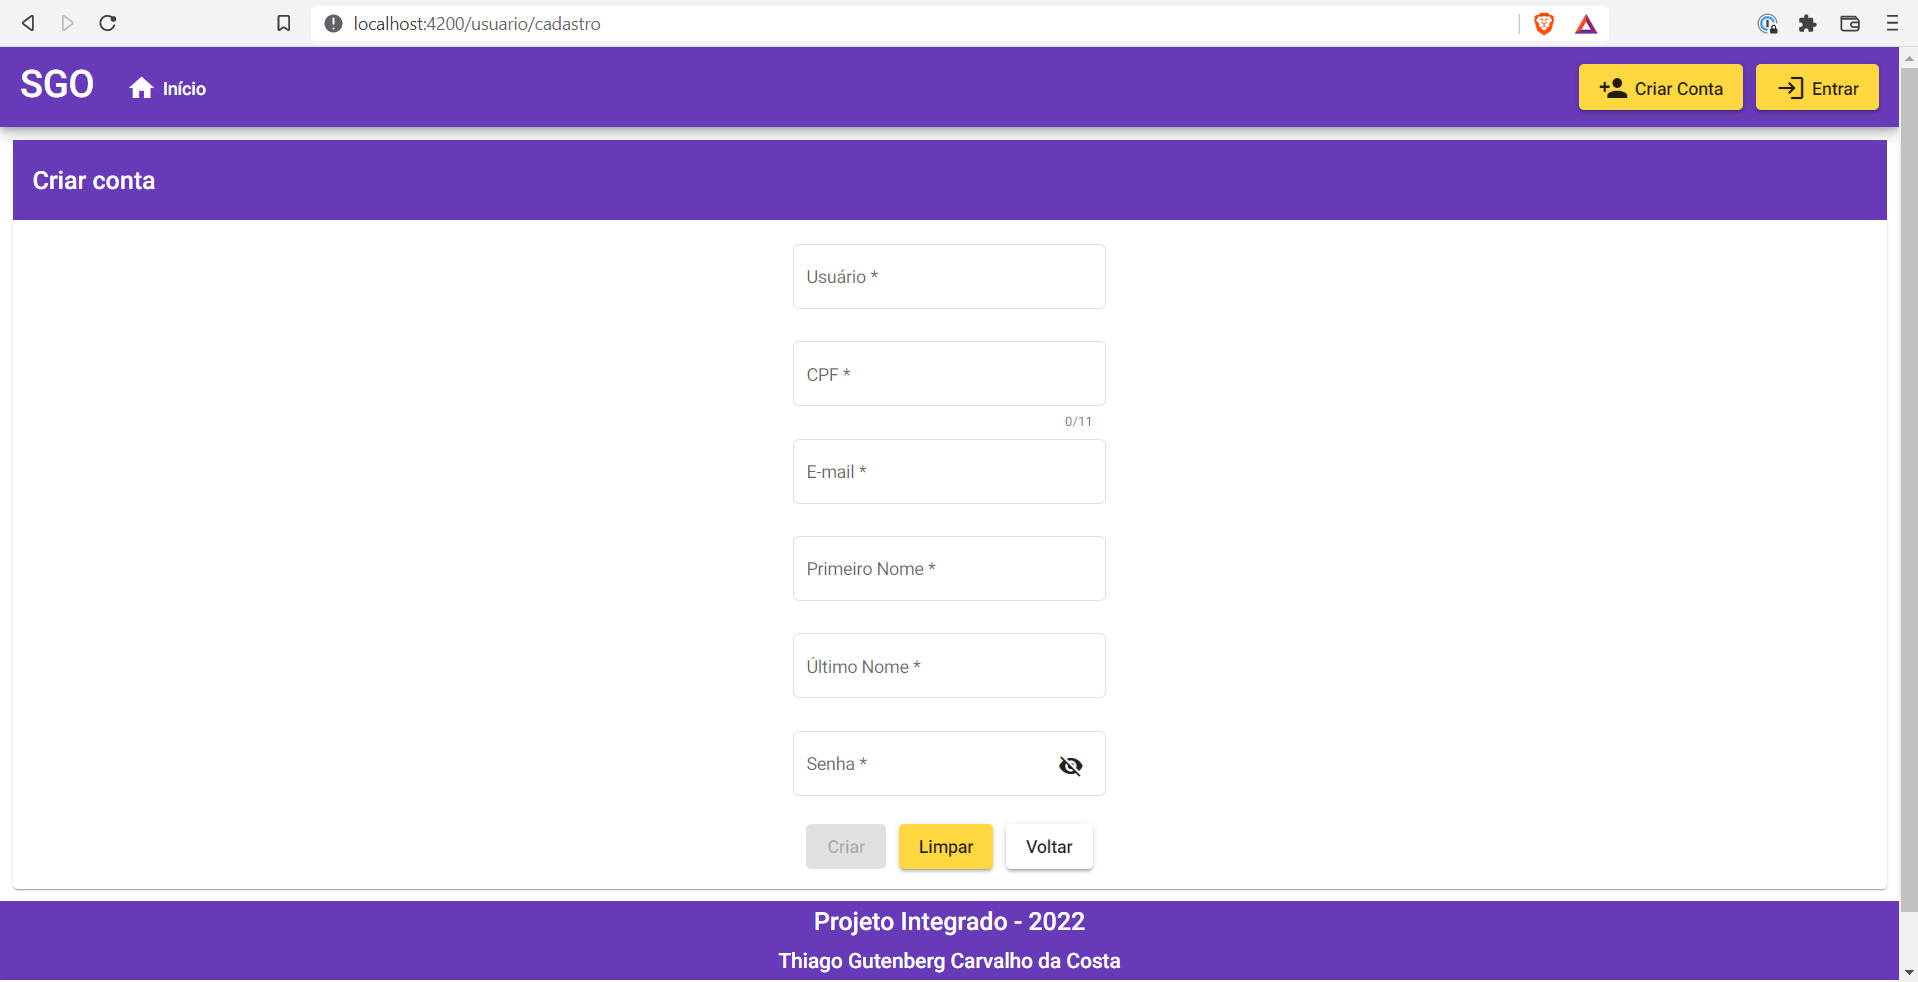
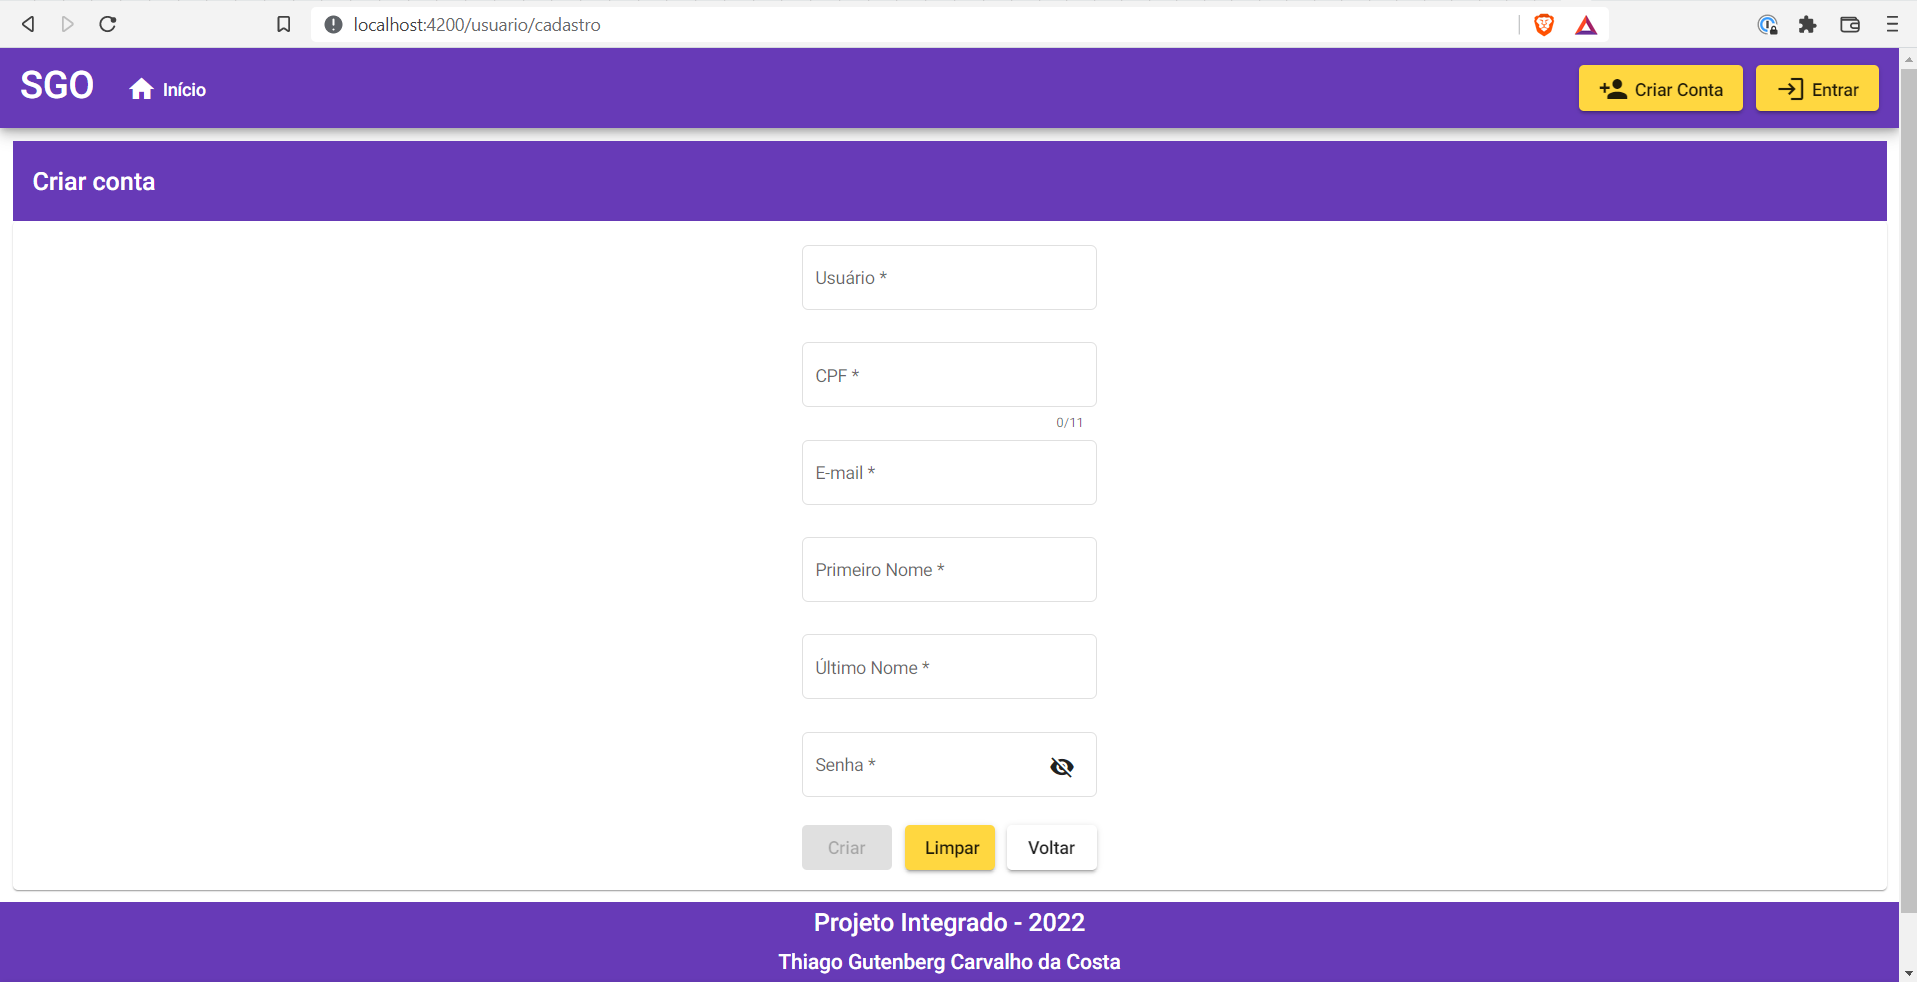
Ajustando responsividade das telas de cadastro e de registro de ocorrencia

diff --git a/portal-web/src/app/ocorrencia/feature/registrar-ocorrencia/registrar-ocorrencia.component.html b/portal-web/src/app/ocorrencia/feature/registrar-ocorrencia/registrar-ocorrencia.component.html
@@ -4,51 +4,71 @@
   </mat-toolbar>
   <mat-card>
     <form [formGroup]="registroForm" (ngSubmit)="onSubmit()" novalidate>
-      <div fxLayout="column" fxLayoutAlign="space-between center">
+      <div fxLayout="column">
 
-        <mat-form-field appearance="outline">
-          <mat-label>Serviço</mat-label>
-          <mat-select formControlName="servico" id="servico" required>
-            <!-- <mat-option>Nenhum</mat-option> -->
-            <ng-container *ngIf="servicos$ | async as servicos;">
-              <mat-option *ngFor="let servico of servicos" [value]="servico.id">
-                {{ servico.nome }}
-              </mat-option>
-            </ng-container>
-          </mat-select>
-          <mat-error *ngIf="hasError('servico', 'required')">Campo é obrigatório</mat-error>
-        </mat-form-field>
+        <div fxLayout="row" fxLayout.xs="column" fxLayoutGap="10px">
+          <div fxFlex="20">
+            <mat-form-field appearance="outline">
+              <mat-label>Serviço</mat-label>
+              <mat-select formControlName="servico" id="servico" required>
+                <!-- <mat-option>Nenhum</mat-option> -->
+                <ng-container *ngIf="servicos$ | async as servicos;">
+                  <mat-option *ngFor="let servico of servicos" [value]="servico.id">
+                    {{ servico.nome }}
+                  </mat-option>
+                </ng-container>
+              </mat-select>
+              <mat-error *ngIf="hasError('servico', 'required')">Campo é obrigatório</mat-error>
+            </mat-form-field>
+          </div>
 
-        <mat-form-field appearance="outline">
-          <mat-label>CEP</mat-label>
-          <input matInput #input maxlength="8" placeholder="00000-000" formControlName="cep" id="cep" required>
-          <mat-hint align="end">{{ input.value?.length || 0 }}/8</mat-hint>
-          <mat-error *ngIf="hasError('cep', 'required')">Campo é obrigatório</mat-error>
-        </mat-form-field>
+          <div fxFlex="80">
+            <div fxLayout="column">
+              <div fxLayout="row" fxLayout.xs="column" fxLayoutGap="10px">
+                <div fxFlex="30">
+                  <mat-form-field appearance="outline">
+                    <mat-label>CEP</mat-label>
+                    <input matInput #input maxlength="8" placeholder="00000-000" formControlName="cep" id="cep"
+                      title="CEP" required>
+                    <mat-hint align="end">{{ input.value?.length || 0 }}/8</mat-hint>
+                    <mat-error *ngIf="hasError('cep', 'required')">Campo é obrigatório</mat-error>
+                  </mat-form-field>
+                </div>
+                <div fxFlex="20">
+                  <mat-form-field appearance="outline">
+                    <mat-label>Estado</mat-label>
+                    <input matInput formControlName="estado" id="estado" title="Estado" required>
+                    <mat-error *ngIf="hasError('estado', 'required')">Campo é obrigatório</mat-error>
+                  </mat-form-field>
+                </div>
+                <div fxFlex="50">
+                  <mat-form-field appearance="outline">
+                    <mat-label>Cidade</mat-label>
+                    <input matInput formControlName="cidade" id="cidade" title="Cidade" required>
+                    <mat-error *ngIf="hasError('cidade', 'required')">Campo é obrigatório</mat-error>
+                  </mat-form-field>
+                </div>
+              </div>
 
-        <mat-form-field appearance="outline">
-          <mat-label>Estado</mat-label>
-          <input matInput formControlName="estado" id="estado" required>
-          <mat-error *ngIf="hasError('estado', 'required')">Campo é obrigatório</mat-error>
-        </mat-form-field>
-
-        <mat-form-field appearance="outline">
-          <mat-label>Cidade</mat-label>
-          <input matInput formControlName="cidade" id="cidade" required>
-          <mat-error *ngIf="hasError('cidade', 'required')">Campo é obrigatório</mat-error>
-        </mat-form-field>
-
-        <mat-form-field appearance="outline">
-          <mat-label>Bairro</mat-label>
-          <input matInput formControlName="bairro" id="bairro" required>
-          <mat-error *ngIf="hasError('bairro', 'required')">Campo é obrigatório</mat-error>
-        </mat-form-field>
-
-        <mat-form-field appearance="outline">
-          <mat-label>Endereço</mat-label>
-          <input matInput formControlName="endereco" id="endereco" required>
-          <mat-error *ngIf="hasError('endereco', 'required')">Campo é obrigatório</mat-error>
-        </mat-form-field>
+              <div fxLayout="row" fxLayout.xs="column" fxLayoutGap="10px">
+                <div fxFlex="30">
+                  <mat-form-field appearance="outline">
+                    <mat-label>Bairro</mat-label>
+                    <input matInput formControlName="bairro" id="bairro" title="Bairro" required>
+                    <mat-error *ngIf="hasError('bairro', 'required')">Campo é obrigatório</mat-error>
+                  </mat-form-field>
+                </div>
+                <div fxFlex="70">
+                  <mat-form-field appearance="outline">
+                    <mat-label>Endereço</mat-label>
+                    <input matInput formControlName="endereco" id="endereco" title="Endereço" required>
+                    <mat-error *ngIf="hasError('endereco', 'required')">Campo é obrigatório</mat-error>
+                  </mat-form-field>
+                </div>
+              </div>
+            </div>
+          </div>
+        </div>
 
         <!-- <div>
           <button mat-fab color="primary" type="button" (click)="fileInput.click()">
@@ -57,17 +77,21 @@
           <input hidden type="file" #fileInput >
         </div> -->
 
-        <mat-form-field appearance="outline">
-          <mat-label>Descrição</mat-label>
-          <textarea matInput formControlName="descricao" id="descricao" required></textarea>
-          <mat-error *ngIf="hasError('descricao', 'required')">Campo é obrigatório</mat-error>
-        </mat-form-field>
-      </div>
+        <div fxLayout="row" fxLayout.xs="column">
+          <div fxFlex>
+            <mat-form-field appearance="outline">
+              <mat-label>Descrição</mat-label>
+              <textarea matInput formControlName="descricao" id="descricao" title="Descrição" required></textarea>
+              <mat-error *ngIf="hasError('descricao', 'required')">Campo é obrigatório</mat-error>
+            </mat-form-field>
+          </div>
+        </div>
 
-      <div fxLayout="row" fxLayoutAlign="start center" fxLayoutGap="10px">
-        <button type="submit" mat-raised-button color="primary" [disabled]="registroForm.invalid">Criar</button>
-        <button type="reset" mat-raised-button color="accent">Limpar</button>
-        <button type="button" mat-raised-button routerLink="/">Voltar</button>
+        <div fxLayout="row" fxLayout.xs="column" fxLayoutGap="10px">
+          <button type="submit" mat-raised-button color="primary" [disabled]="registroForm.invalid">Criar</button>
+          <button type="reset" mat-raised-button color="accent">Limpar</button>
+          <button type="button" mat-raised-button routerLink="/">Voltar</button>
+        </div>
       </div>
     </form>
   </mat-card>

diff --git a/portal-web/src/app/usuario/feature/cadastro/cadastro.component.html b/portal-web/src/app/usuario/feature/cadastro/cadastro.component.html
@@ -4,54 +4,70 @@
   </mat-toolbar>
   <mat-card>
     <form [formGroup]="cadastroForm" (ngSubmit)="onSubmit()" novalidate>
-      <div fxLayout="column" fxLayoutAlign="space-between center">
-        <mat-form-field appearance="outline">
-          <mat-label>Usuário</mat-label>
-          <input matInput formControlName="usuario" id="usuario" required>
-          <mat-error *ngIf="hasError('usuario', 'required')">Campo é obrigatório</mat-error>
-        </mat-form-field>
+      <div fxLayout="column" fxLayoutAlign="center center">
+        <div fxLayout="column" fxLayoutAlign="center stretch">
 
-        <mat-form-field appearance="outline">
-          <mat-label>CPF</mat-label>
-          <input matInput #input maxlength="11" placeholder="000.000.000-00" formControlName="cpf" id="cpf" required>
-          <mat-hint align="end">{{ input.value?.length || 0 }}/11</mat-hint>
-          <mat-error *ngIf="hasError('cpf', 'required')">Campo é obrigatório</mat-error>
-        </mat-form-field>
+          <div fxLayout="column" fxLayoutAlign="space-between stretch">
+            <div fxFlex>
+              <mat-form-field appearance="outline">
+                <mat-label>Usuário</mat-label>
+                <input matInput formControlName="usuario" id="usuario" title="Usuário" required>
+                <mat-error *ngIf="hasError('usuario', 'required')">Campo é obrigatório</mat-error>
+              </mat-form-field>
+            </div>
+            <div fxFlex>
+              <mat-form-field appearance="outline">
+                <mat-label>CPF</mat-label>
+                <input matInput #input maxlength="11" placeholder="000.000.000-00" formControlName="cpf" id="cpf"
+                  title="CPF" required>
+                <mat-hint align="end">{{ input.value?.length || 0 }}/11</mat-hint>
+                <mat-error *ngIf="hasError('cpf', 'required')">Campo é obrigatório</mat-error>
+              </mat-form-field>
+            </div>
+            <div fxFlex>
+              <mat-form-field appearance="outline">
+                <mat-label>E-mail</mat-label>
+                <input matInput formControlName="email" id="email" title="E-mail" required>
+                <mat-error *ngIf="hasError('email', 'required')">Campo é obrigatório</mat-error>
+              </mat-form-field>
+            </div>
+            <div fxFlex>
+              <mat-form-field appearance="outline">
+                <mat-label>Primeiro Nome</mat-label>
+                <input matInput formControlName="primeiroNome" id="primeiroNome" title="Primeiro Nome" required>
+                <mat-error *ngIf="hasError('primeiroNome', 'required')">Campo é obrigatório</mat-error>
+              </mat-form-field>
+            </div>
+            <div fxFlex>
+              <mat-form-field appearance="outline">
+                <mat-label>Último Nome</mat-label>
+                <input matInput formControlName="ultimoNome" id="ultimoNome" title="Último Nome" required>
+                <mat-error *ngIf="hasError('ultimoNome', 'required')">Campo é obrigatório</mat-error>
+              </mat-form-field>
+            </div>
+            <div fxFlex>
+              <mat-form-field appearance="outline">
+                <mat-label>Senha</mat-label>
+                <input matInput [type]="hidePassword ? 'password' : 'text'" formControlName="senha" id="senha"
+                  title="Senha" required>
+                <button type="button" mat-icon-button matSuffix (click)="hidePassword = !hidePassword"
+                  [attr.aria-label]="'Ocultar senha'" [attr.aria-pressed]="hidePassword">
+                  <mat-icon>{{ hidePassword ? 'visibility_off' : 'visibility' }}</mat-icon>
+                </button>
+                <!-- <mat-icon matSuffix (click)="hidePassword = !hidePassword">{{ hidePassword ? 'visibility_off' : 'visibility' }}</mat-icon> -->
+                <mat-error *ngIf="hasError('senha', 'required')">Campo é obrigatório</mat-error>
+              </mat-form-field>
+            </div>
+          </div>
 
-        <mat-form-field appearance="outline">
-          <mat-label>E-mail</mat-label>
-          <input matInput formControlName="email" id="email" required>
-          <mat-error *ngIf="hasError('email', 'required')">Campo é obrigatório</mat-error>
-        </mat-form-field>
+          <div fxLayout="row" fxLayout.xs="column" fxLayoutAlign="center stretch" fxLayoutGap="10px">
+            <button fxFlex type="submit" mat-raised-button color="primary"
+              [disabled]="cadastroForm.invalid">Criar</button>
+            <button fxFlex type="reset" mat-raised-button color="accent">Limpar</button>
+            <button fxFlex type="button" mat-raised-button routerLink="/">Voltar</button>
+          </div>
 
-        <mat-form-field appearance="outline">
-          <mat-label>Primeiro Nome</mat-label>
-          <input matInput formControlName="primeiroNome" id="primeiroNome" required>
-          <mat-error *ngIf="hasError('primeiroNome', 'required')">Campo é obrigatório</mat-error>
-        </mat-form-field>
-
-        <mat-form-field appearance="outline">
-          <mat-label>Último Nome</mat-label>
-          <input matInput formControlName="ultimoNome" id="ultimoNome" required>
-          <mat-error *ngIf="hasError('ultimoNome', 'required')">Campo é obrigatório</mat-error>
-        </mat-form-field>
-
-        <mat-form-field appearance="outline">
-          <mat-label>Senha</mat-label>
-          <input matInput [type]="hidePassword ? 'password' : 'text'" formControlName="senha" id="senha" required>
-          <button type="button" mat-icon-button matSuffix (click)="hidePassword = !hidePassword" [attr.aria-label]="'Ocultar senha'"
-            [attr.aria-pressed]="hidePassword">
-            <mat-icon>{{ hidePassword ? 'visibility_off' : 'visibility' }}</mat-icon>
-          </button>
-          <!-- <mat-icon matSuffix (click)="hidePassword = !hidePassword">{{ hidePassword ? 'visibility_off' : 'visibility' }}</mat-icon> -->
-          <mat-error *ngIf="hasError('senha', 'required')">Campo é obrigatório</mat-error>
-        </mat-form-field>
-      </div>
-
-      <div fxLayout="row" fxLayoutAlign="center center" fxLayoutGap="10px">
-        <button type="submit" mat-raised-button color="primary" [disabled]="cadastroForm.invalid">Criar</button>
-        <button type="reset" mat-raised-button color="accent">Limpar</button>
-        <button type="button" mat-raised-button routerLink="/">Voltar</button>
+        </div>
       </div>
     </form>
   </mat-card>

diff --git a/portal-web/src/app/usuario/feature/cadastro/cadastro.component.scss b/portal-web/src/app/usuario/feature/cadastro/cadastro.component.scss
@@ -2,6 +2,6 @@
   margin: 10px;
 }
 
-.mat-form-field {
-  width: 250px;
+mat-form-field {
+  width: 100%;
 }

diff --git a/portal-web/src/app/ocorrencia/feature/registrar-ocorrencia/registrar-ocorrencia.component.scss b/portal-web/src/app/ocorrencia/feature/registrar-ocorrencia/registrar-ocorrencia.component.scss
@@ -1,3 +1,7 @@
 .container {
   margin: 10px;
 }
+
+mat-form-field {
+  width: 100%;
+}

diff --git a/README.md b/README.md
@@ -10,7 +10,7 @@ Sistema para registro de ocorrência de serviços de manutenção em estruturas 
 * [Docker Compose](https://docs.docker.com/compose/)
 
 ## Começando com o projeto
-O sistema está conteinerizado, onde seus módulos são imagens Docker.
+O sistema está conteinerizado, onde seus módulos são imagens Docker. Unidades padrão de software que empacota todo ambiente, o código e todas as suas dependências, de forma autocontida. Afim de acabar com o famoso funciona na minha máquina.
 
 Para executar todos eles de uma vez só e subir o sistema como um todo, a ferramenta Docker Compose deve ser utilizada através dos [comandos](https://docs.docker.com/compose/reference/) abaixo:
 
